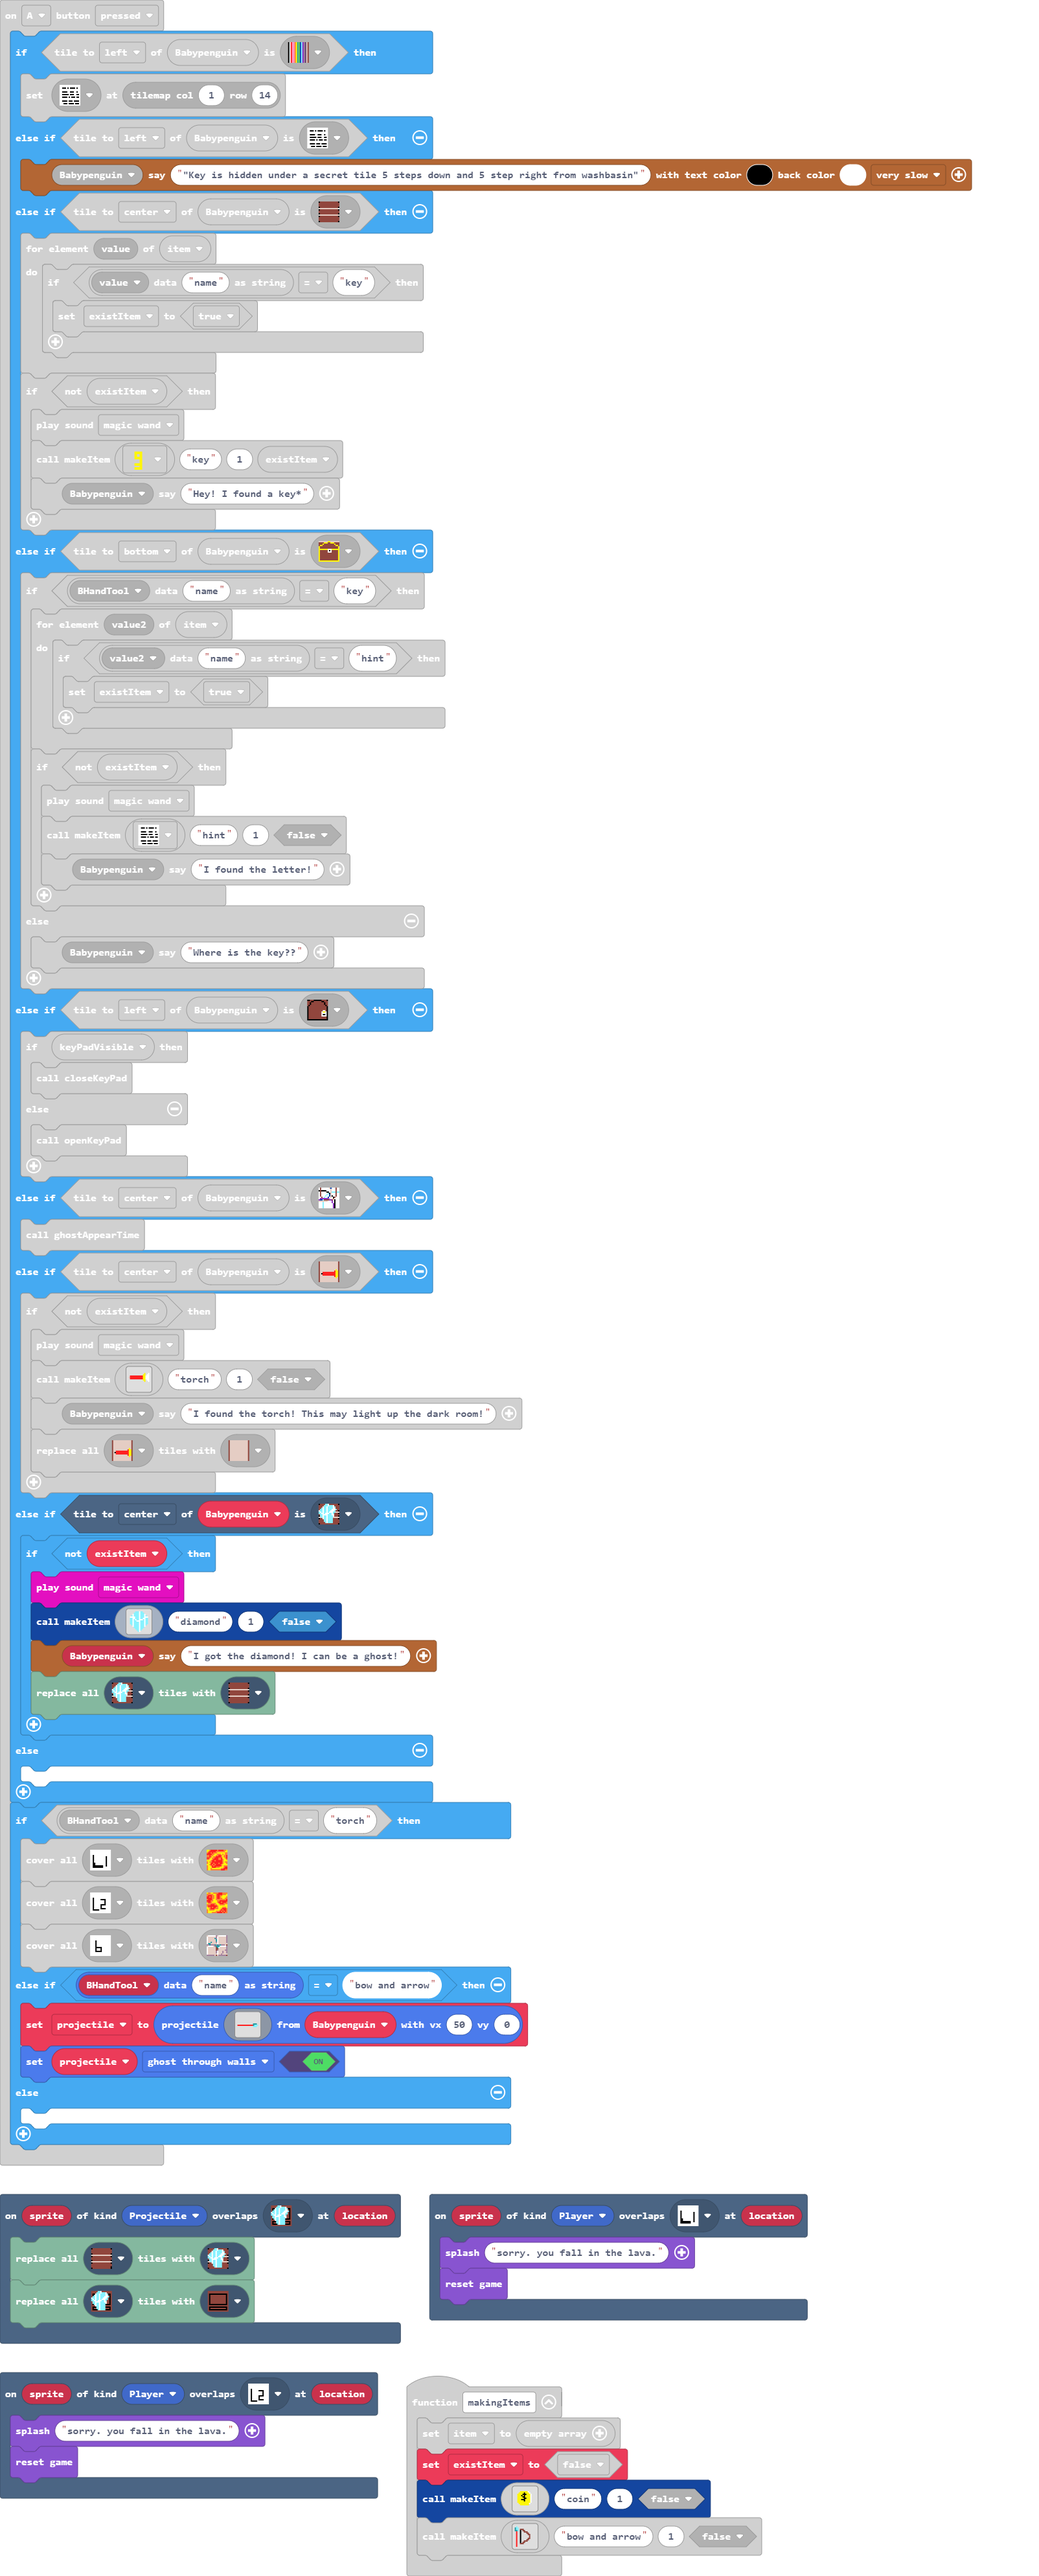
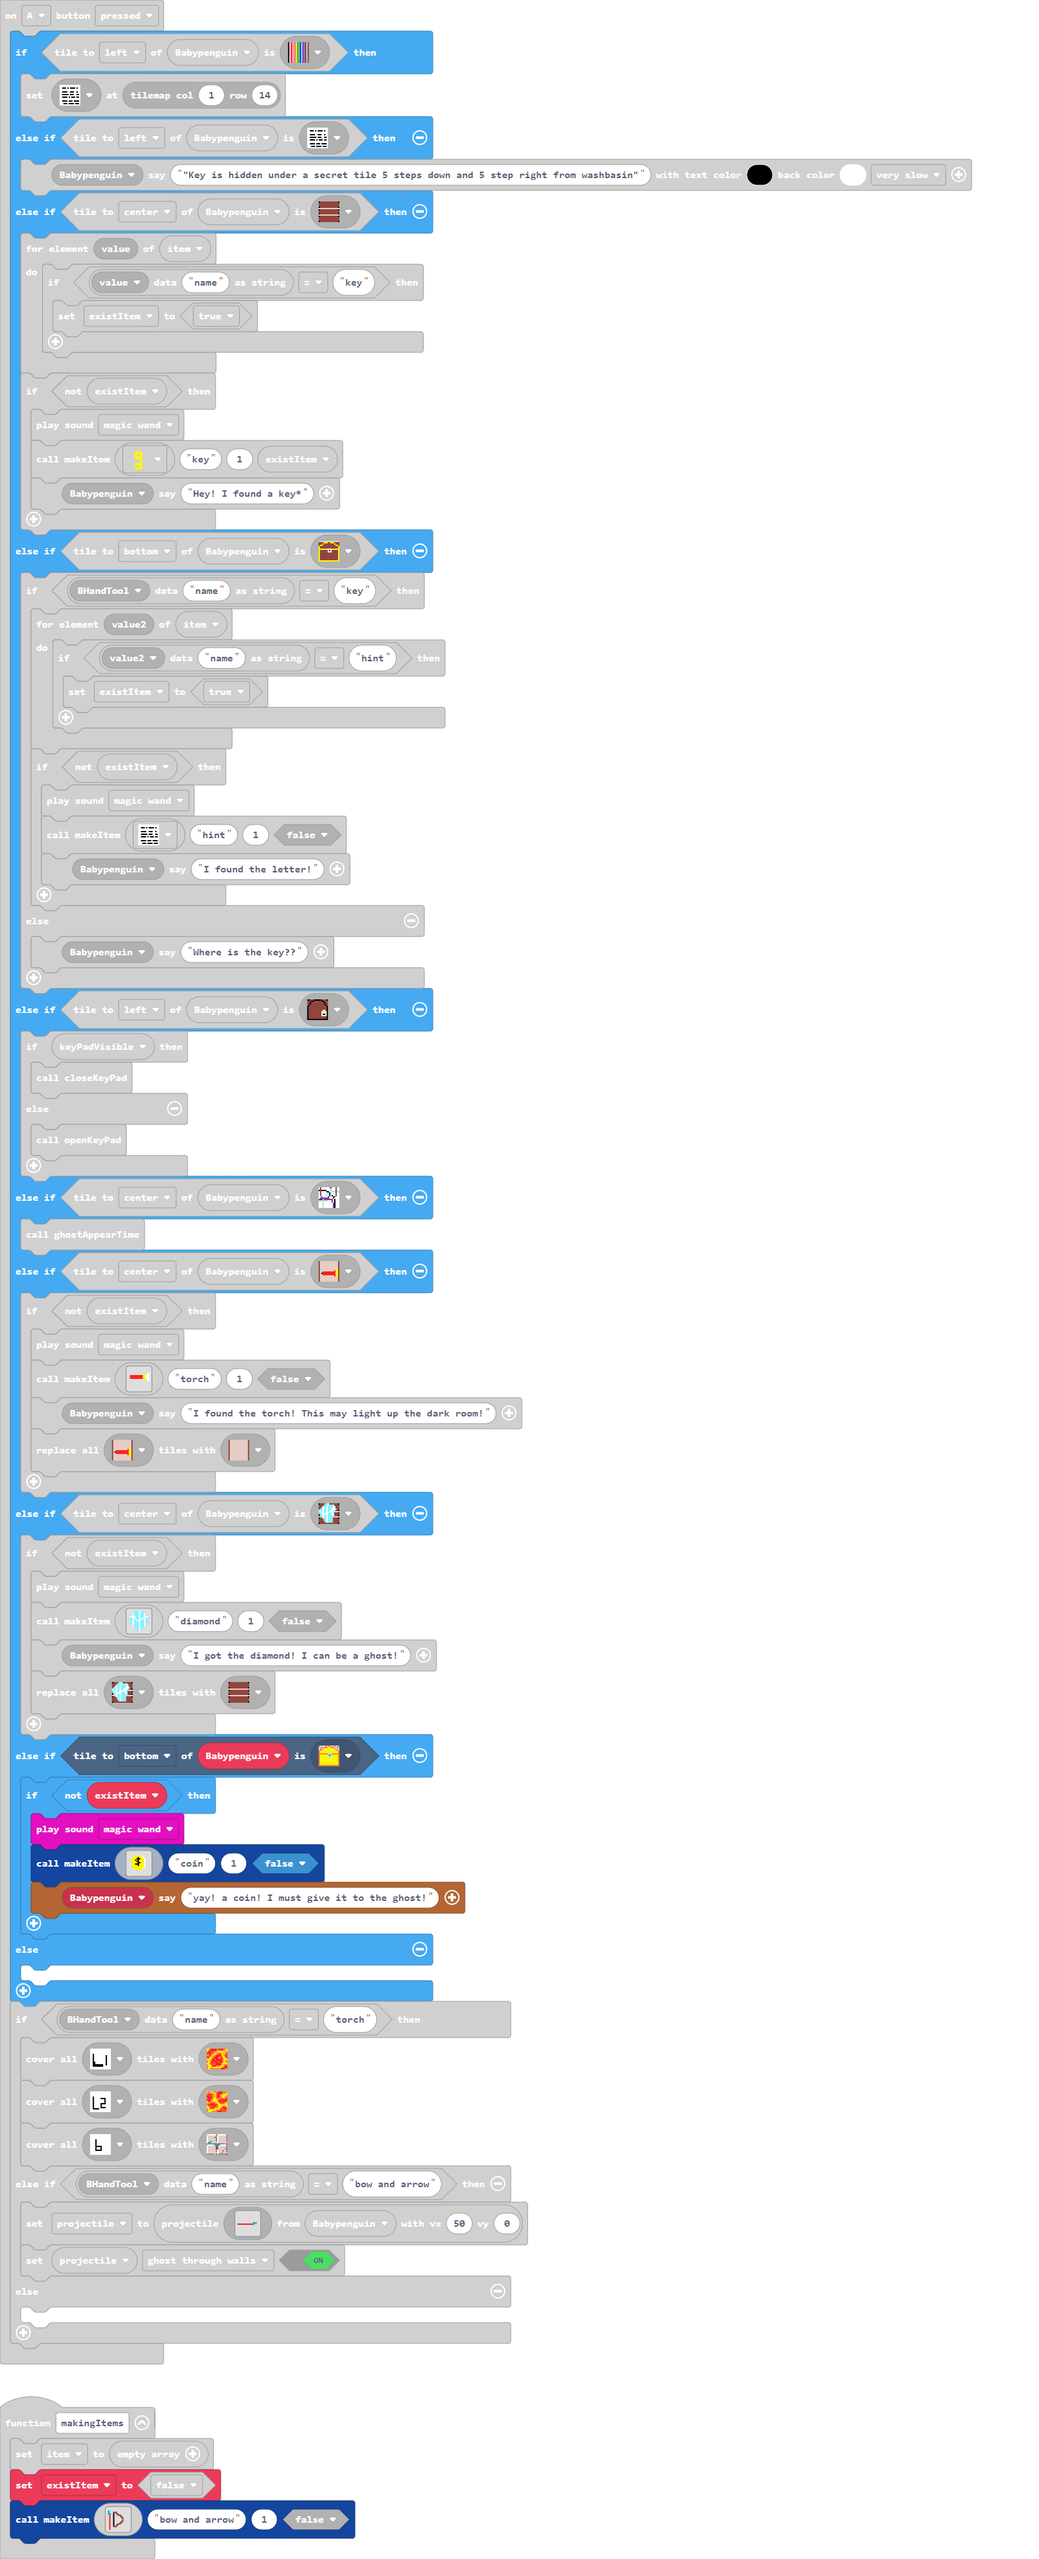
Update main.blocks, main.ts

Changed region(s): [[0.0, 0.0311, 0.9352, 1.0]]

diff --git a/main.ts b/main.ts
@@ -124,6 +124,29 @@ controller.A.onEvent(ControllerButtonEvent.Pressed, function () {
             story.spriteSayText(Babypenguin, "I got the diamond! I can be a ghost!")
             tiles.replaceAllTiles(assets.tile`myTile53`, assets.tile`myTile`)
         }
+    } else if (Babypenguin.tileKindAt(TileDirection.Bottom, assets.tile`myTile40`)) {
+        if (!(existItem)) {
+            music.magicWand.play()
+            makeItem(img`
+                . . . . . . . . . . . . . . . . 
+                . . . . . . . . . . . . . . . . 
+                . . . . 5 5 5 5 5 5 1 . . . . . 
+                . . . 5 5 5 5 f 5 5 5 1 . . . . 
+                . . 5 5 5 5 f f f 5 5 5 1 . . . 
+                . . 5 5 5 f 5 f 5 5 5 5 1 . . . 
+                . . 5 5 5 5 f f 5 5 5 5 1 . . . 
+                . . 5 5 5 5 5 f f 5 5 5 1 . . . 
+                . . 5 5 5 f f f 5 5 5 5 1 . . . 
+                . . 5 5 5 5 5 f 5 5 5 5 1 . . . 
+                . . 5 5 5 5 5 5 5 5 5 5 1 . . . 
+                . . . 5 5 5 5 5 5 5 5 1 . . . . 
+                . . . . 5 5 5 5 5 5 5 . . . . . 
+                . . . . . . . . . . . . . . . . 
+                . . . . . . . . . . . . . . . . 
+                . . . . . . . . . . . . . . . . 
+                `, "coin", 1, false)
+            story.spriteSayText(Babypenguin, "yay! a coin! I must give it to the ghost!")
+        }
     } else {
     	
     }
@@ -169,24 +192,6 @@ function makeItem (image2: Image, name: string, amount: number, dontAddToInvento
 function makingItems () {
     item = []
     existItem = false
-    makeItem(img`
-        . . . . . . . . . . . . . . . . 
-        . . . . . . . . . . . . . . . . 
-        . . . . 5 5 5 5 5 5 1 . . . . . 
-        . . . 5 5 5 5 f 5 5 5 1 . . . . 
-        . . 5 5 5 5 f f f 5 5 5 1 . . . 
-        . . 5 5 5 f 5 f 5 5 5 5 1 . . . 
-        . . 5 5 5 5 f f 5 5 5 5 1 . . . 
-        . . 5 5 5 5 5 f f 5 5 5 1 . . . 
-        . . 5 5 5 f f f 5 5 5 5 1 . . . 
-        . . 5 5 5 5 5 f 5 5 5 5 1 . . . 
-        . . 5 5 5 5 5 5 5 5 5 5 1 . . . 
-        . . . 5 5 5 5 5 5 5 5 1 . . . . 
-        . . . . 5 5 5 5 5 5 5 . . . . . 
-        . . . . . . . . . . . . . . . . 
-        . . . . . . . . . . . . . . . . 
-        . . . . . . . . . . . . . . . . 
-        `, "coin", 1, false)
     makeItem(img`
         . 9 . . . . . . . . . . . . . . 
         6 9 9 . . . . . . . . . . . . . 
